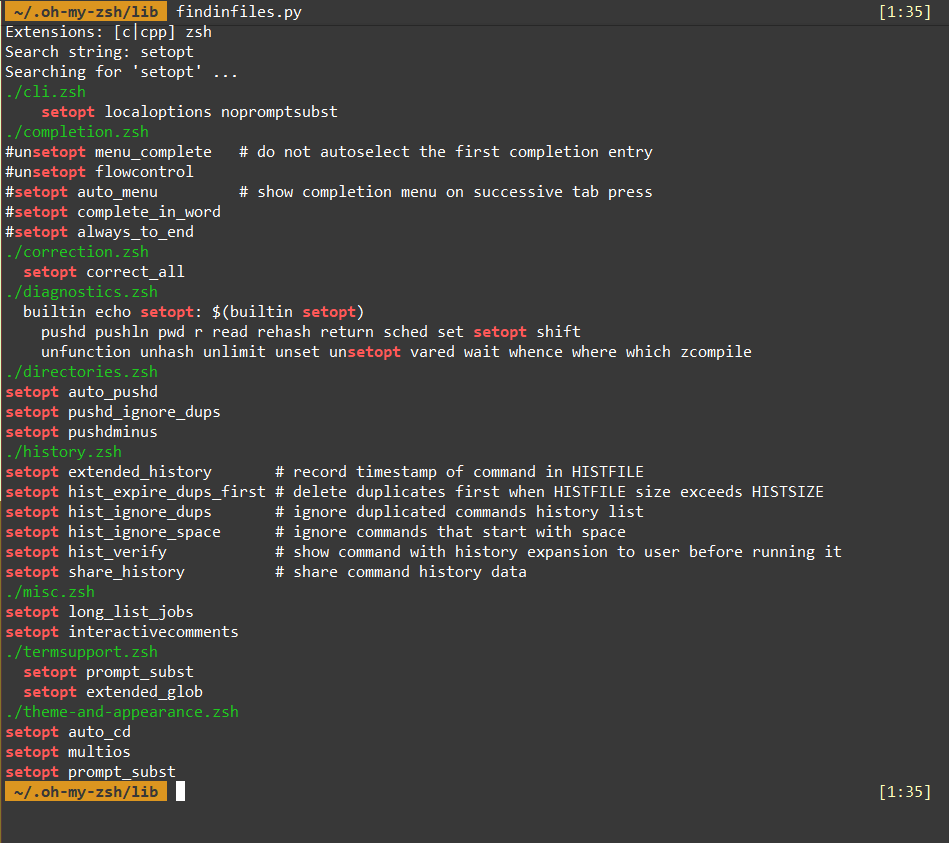
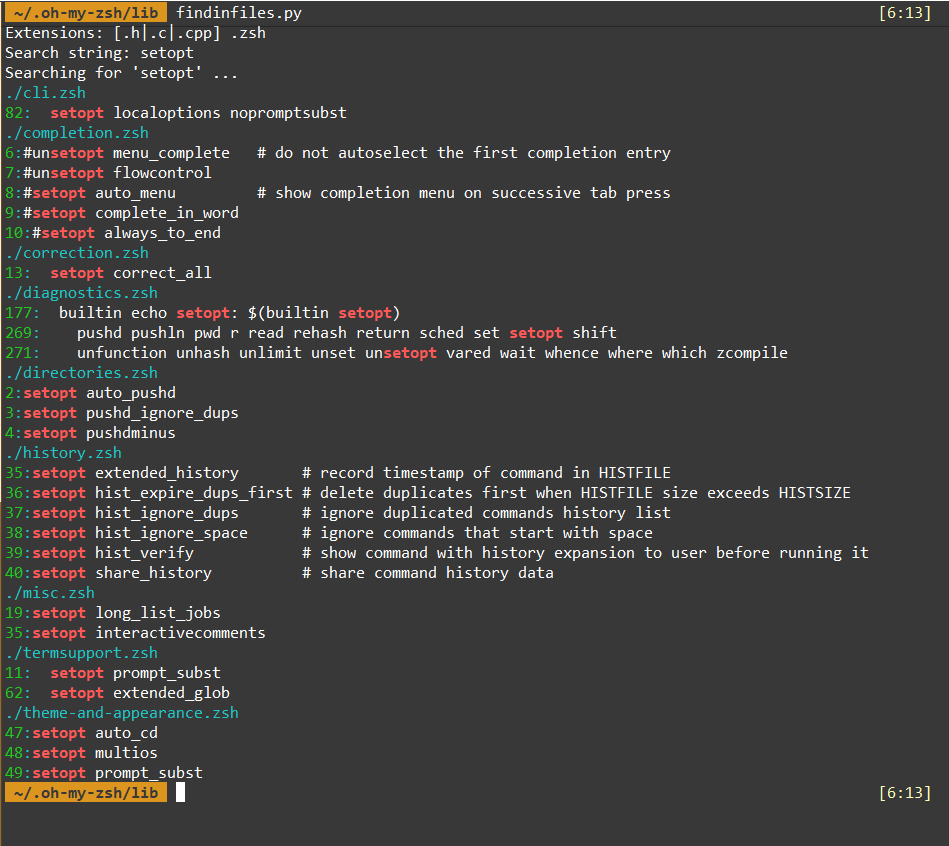
simply use grep to do all the stuff

diff --git a/Search Keyword in Files/findinfiles.py b/Search Keyword in Files/findinfiles.py
@@ -11,6 +11,9 @@ from argparse import ArgumentParser, Namespace
 DEFAULT_EXT = '.h|.c|.cpp'
 
 
+def cyan(text):
+    return "\33[36m" + text + "\33[0m"
+
 def green(text):
     return "\33[32m" + text + "\33[0m"
 
@@ -28,7 +31,7 @@ def main(args: Namespace):
     elif ext.startswith('(') and ext.endswith(')'):
         ext.strip('()')
 
-    regex = '.*/.*\\(' + ext.replace('.', '\\.').replace('|', '\\|') + '\\)'
+    regex = '.*/.*\\(' + ext.replace('|', '\\|').replace('.', '\\.') + '\\)'
     res = run(['find', '-L' if args.symlink else '-P', '.', '-type', 'f', '-regex', regex],
               stdout=PIPE,
               check=True)
@@ -38,27 +41,19 @@ def main(args: Namespace):
 
     # configure search string
     search_str = input('Search string: ')
-    if args.icase:
-        search_str = search_str.upper()
-
+    grep_pattern = '{}{}'.format('(?i)' if args.icase else '', escape_regex(search_str))
     print("Searching for '{}' ...".format(search_str))
 
     for name in res.stdout.decode('utf8').strip('\n').split('\n'):
-        name_shown = False
-        for i, line in enumerate(open(name, 'rb').read().split(b'\n')):  # type: bytes
-            if search_str.encode('utf8') in (line.upper() if args.icase else line):
-                if not name_shown or args.verbose:
-                    print(green('{}:{}'.format(name, i + 1)))
-                    name_shown = True
-
-                pattern = ('(?i)' if args.icase else '') + escape_regex(search_str)
-                run(['grep', '--color=always', '-P', pattern], input=line, check=True)
+        r = run(['grep', '--color=always', '-n', '-P', grep_pattern, name], stdout=PIPE)
+        if len(r.stdout) > 0:
+            print(cyan(name))
+            print(r.stdout.decode('utf8'), end='')
 
 
 if __name__ == '__main__':
     parser = ArgumentParser()
     parser.add_argument('-i', dest='icase', action='store_true', help='case insensitive search')
-    parser.add_argument('-v', dest='verbose', action='store_true', help='verbose')
     parser.add_argument('-nL', dest='symlink', action='store_false',
                         help='do not follow symbolic link when listing files')
     main(args=parser.parse_args())
@@ -74,3 +69,5 @@ if __name__ == '__main__':
 #   - reduce encode/decode usage
 # - 6/8:
 #   - change extension representation to .h, show line number
+# - 6/11:
+#   - simply use grep to do all the stuff
